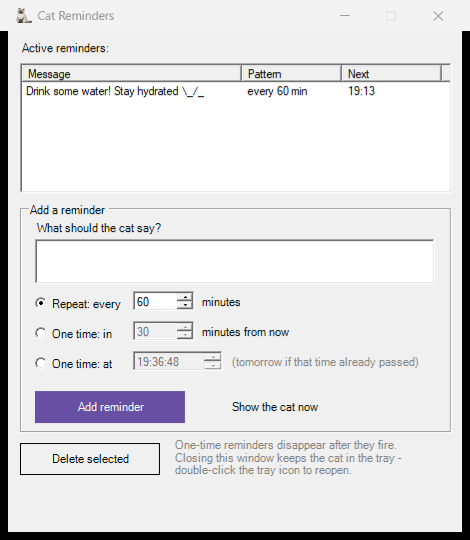
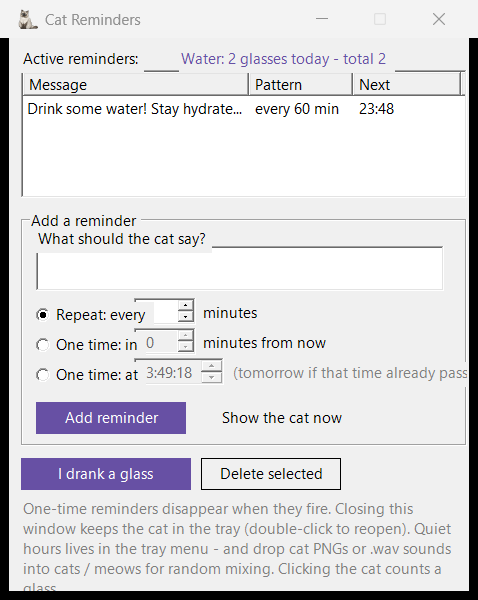
v1.0 prep: quiet hours, sound pool, water tally, fullscreen defer, installer
- settings.json: quiet hours (23:00-07:00 default, toggle in the tray menu),
  plus a per-day water tally that resets automatically
- popups defer while Windows is busy (fullscreen game / presentation /
  do-not-disturb) and fire the moment it's polite again
- meows folder: drop any number of .wav sounds, random meow per popup
- clicking the cat counts a glass; the panel has a water tally and an
  'I drank a glass' button
- reminders.json write is atomic and load falls back to defaults when
  the file is missing/empty/corrupt (no more phantom empty rows)
- install.bat / uninstall.bat pair; launchers became location-independent
- control panel gains the tally + button; README shows the new UI

diff --git a/README.md b/README.md
@@ -7,15 +7,19 @@ One PowerShell script, no installer, no dependencies. Runs on any Windows 10/11.
 ![popup](docs/screenshot-popup.png)
 
 - Cat says things every N minutes, or once at a set time (then leaves)
-- Click the cat to shoo it away. Hover it and it gives you 10 seconds before leaving on its own
+- Click the cat to shoo it away (and log a glass of water). Hover it and it gives you 10 seconds before leaving on its own
 - Right-click = snooze 10 min, double-click = quiet for an hour
+- Quiet hours so the cat naps at night, and it stays polite during fullscreen games and presentations
+- A little water tally: today's glasses and all-time
 
-The looks are customizable: drop in any image as `cat.png` (it auto-crops and strips the background, even if you screenshot it off some website) and any sound as `meow.wav`. Want a whole litter? Drop extra PNGs into a `cats` folder next to the script — every popup picks a random cat and a random line, so no two popups look the same. The popup lines live in a list at the top of the script.
+The looks are customizable: drop in any image as `cat.png` (it auto-crops and strips the background, even if you screenshot it off some website) and any sound as `meow.wav`. Want a whole litter? Drop extra PNGs into a `cats` folder next to the script — every popup picks a random cat, a random line and a random meow (from a `meows` folder), so no two popups look the same. The popup lines live in a list at the top of the script.
 
 Panel looks like this, if you're into settings:
 
 ![panel](docs/screenshot-panel.png)
 
 Launch `launch-cat.vbs`, forget about it. Reminders survive reboots, the app idles at ~13 MB, and it starts itself 45 seconds after login so it doesn't slow your boot.
+
+The comfy way: run `install.bat` — it copies the folder to `%LOCALAPPDATA%\CatReminders`, wires the Start Menu and logon shortcuts, and starts the cat. `uninstall.bat` removes everything, no drama.
 
 MIT. Meow is CC0 from Wikimedia.
